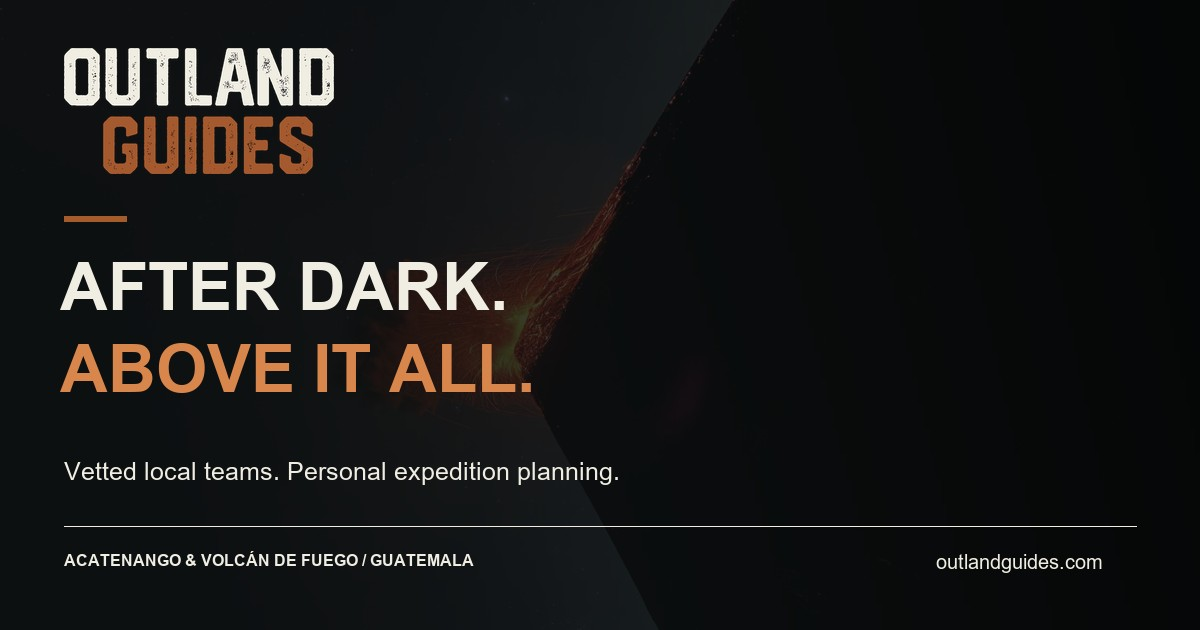
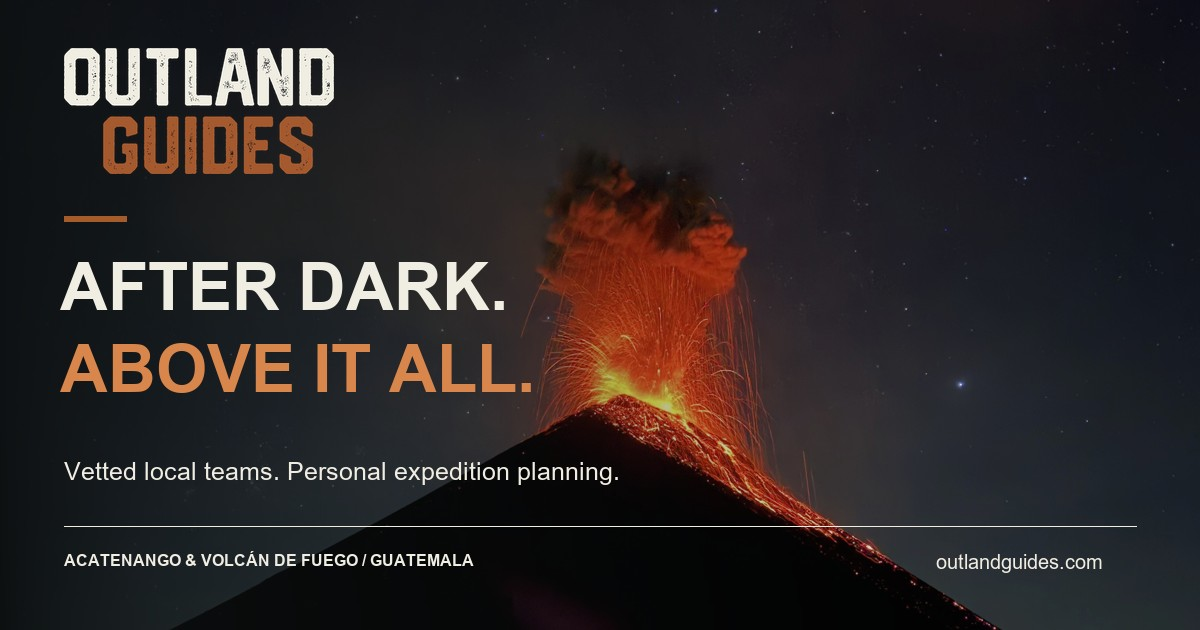
Honor photo orientation and brighten eruption in Fuego sharing card

diff --git a/scripts/build-brand-assets.py b/scripts/build-brand-assets.py
@@ -36,11 +36,12 @@ def main():
         'safari': ('wildlife-safari-expedition.png', ['THE WILD.', 'WITH LOCAL EYES.'], 'NGORONGORO & SERENGETI / TANZANIA'),
     }
     for name,(photo,lines,kicker) in cards.items():
-        card = ImageOps.fit(Image.open(ASSETS/photo).convert('RGB'), (1200,630), centering=(.5,.3)).convert('RGBA')
+        card = ImageOps.fit(ImageOps.exif_transpose(Image.open(ASSETS/photo)).convert('RGB'), (1200,630), centering=(.5,.3)).convert('RGBA')
         shade = Image.new('RGBA',card.size)
         px=shade.load()
         for x in range(1200):
             alpha=int(235 - 145*(x/1199)**1.7)
+            if name == 'fuego': alpha=int(235 - 220*min(1,x/900)**.7)
             for y in range(630): px[x,y]=(13,16,17,min(255,alpha+int(25*y/630)))
         card=Image.alpha_composite(card,shade)
         card.alpha_composite(wordmark,(64,48))
